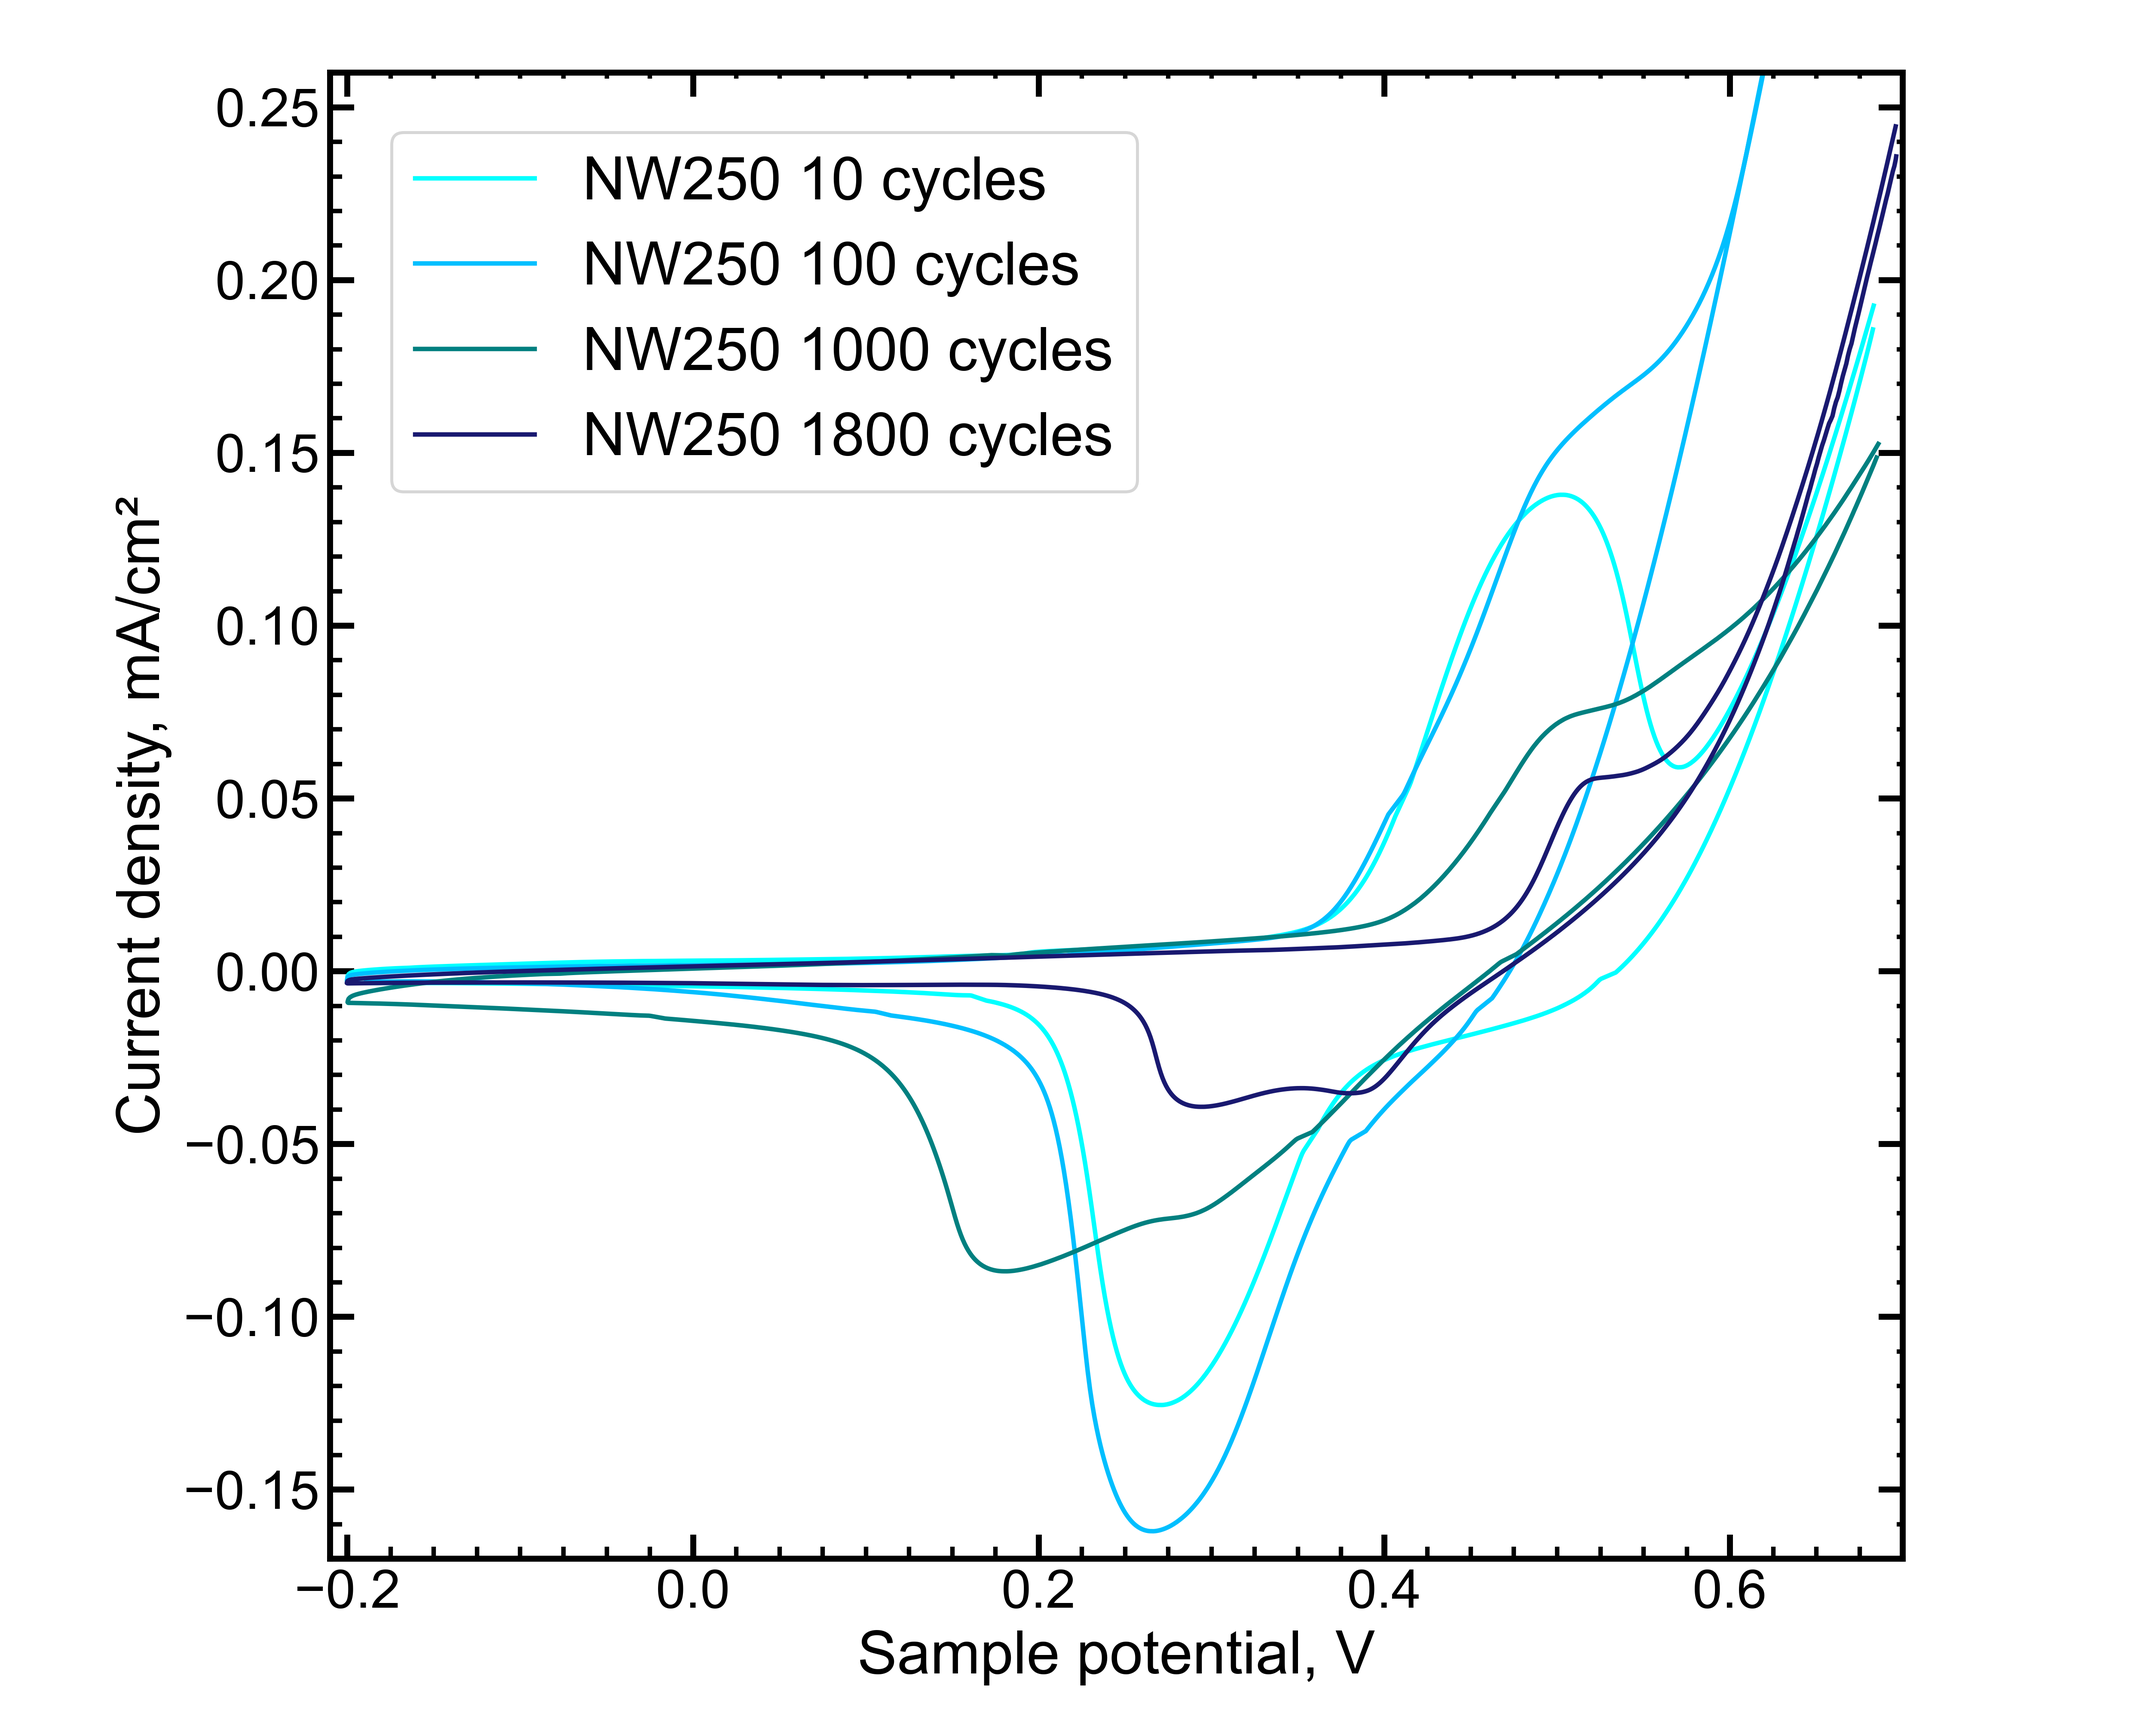
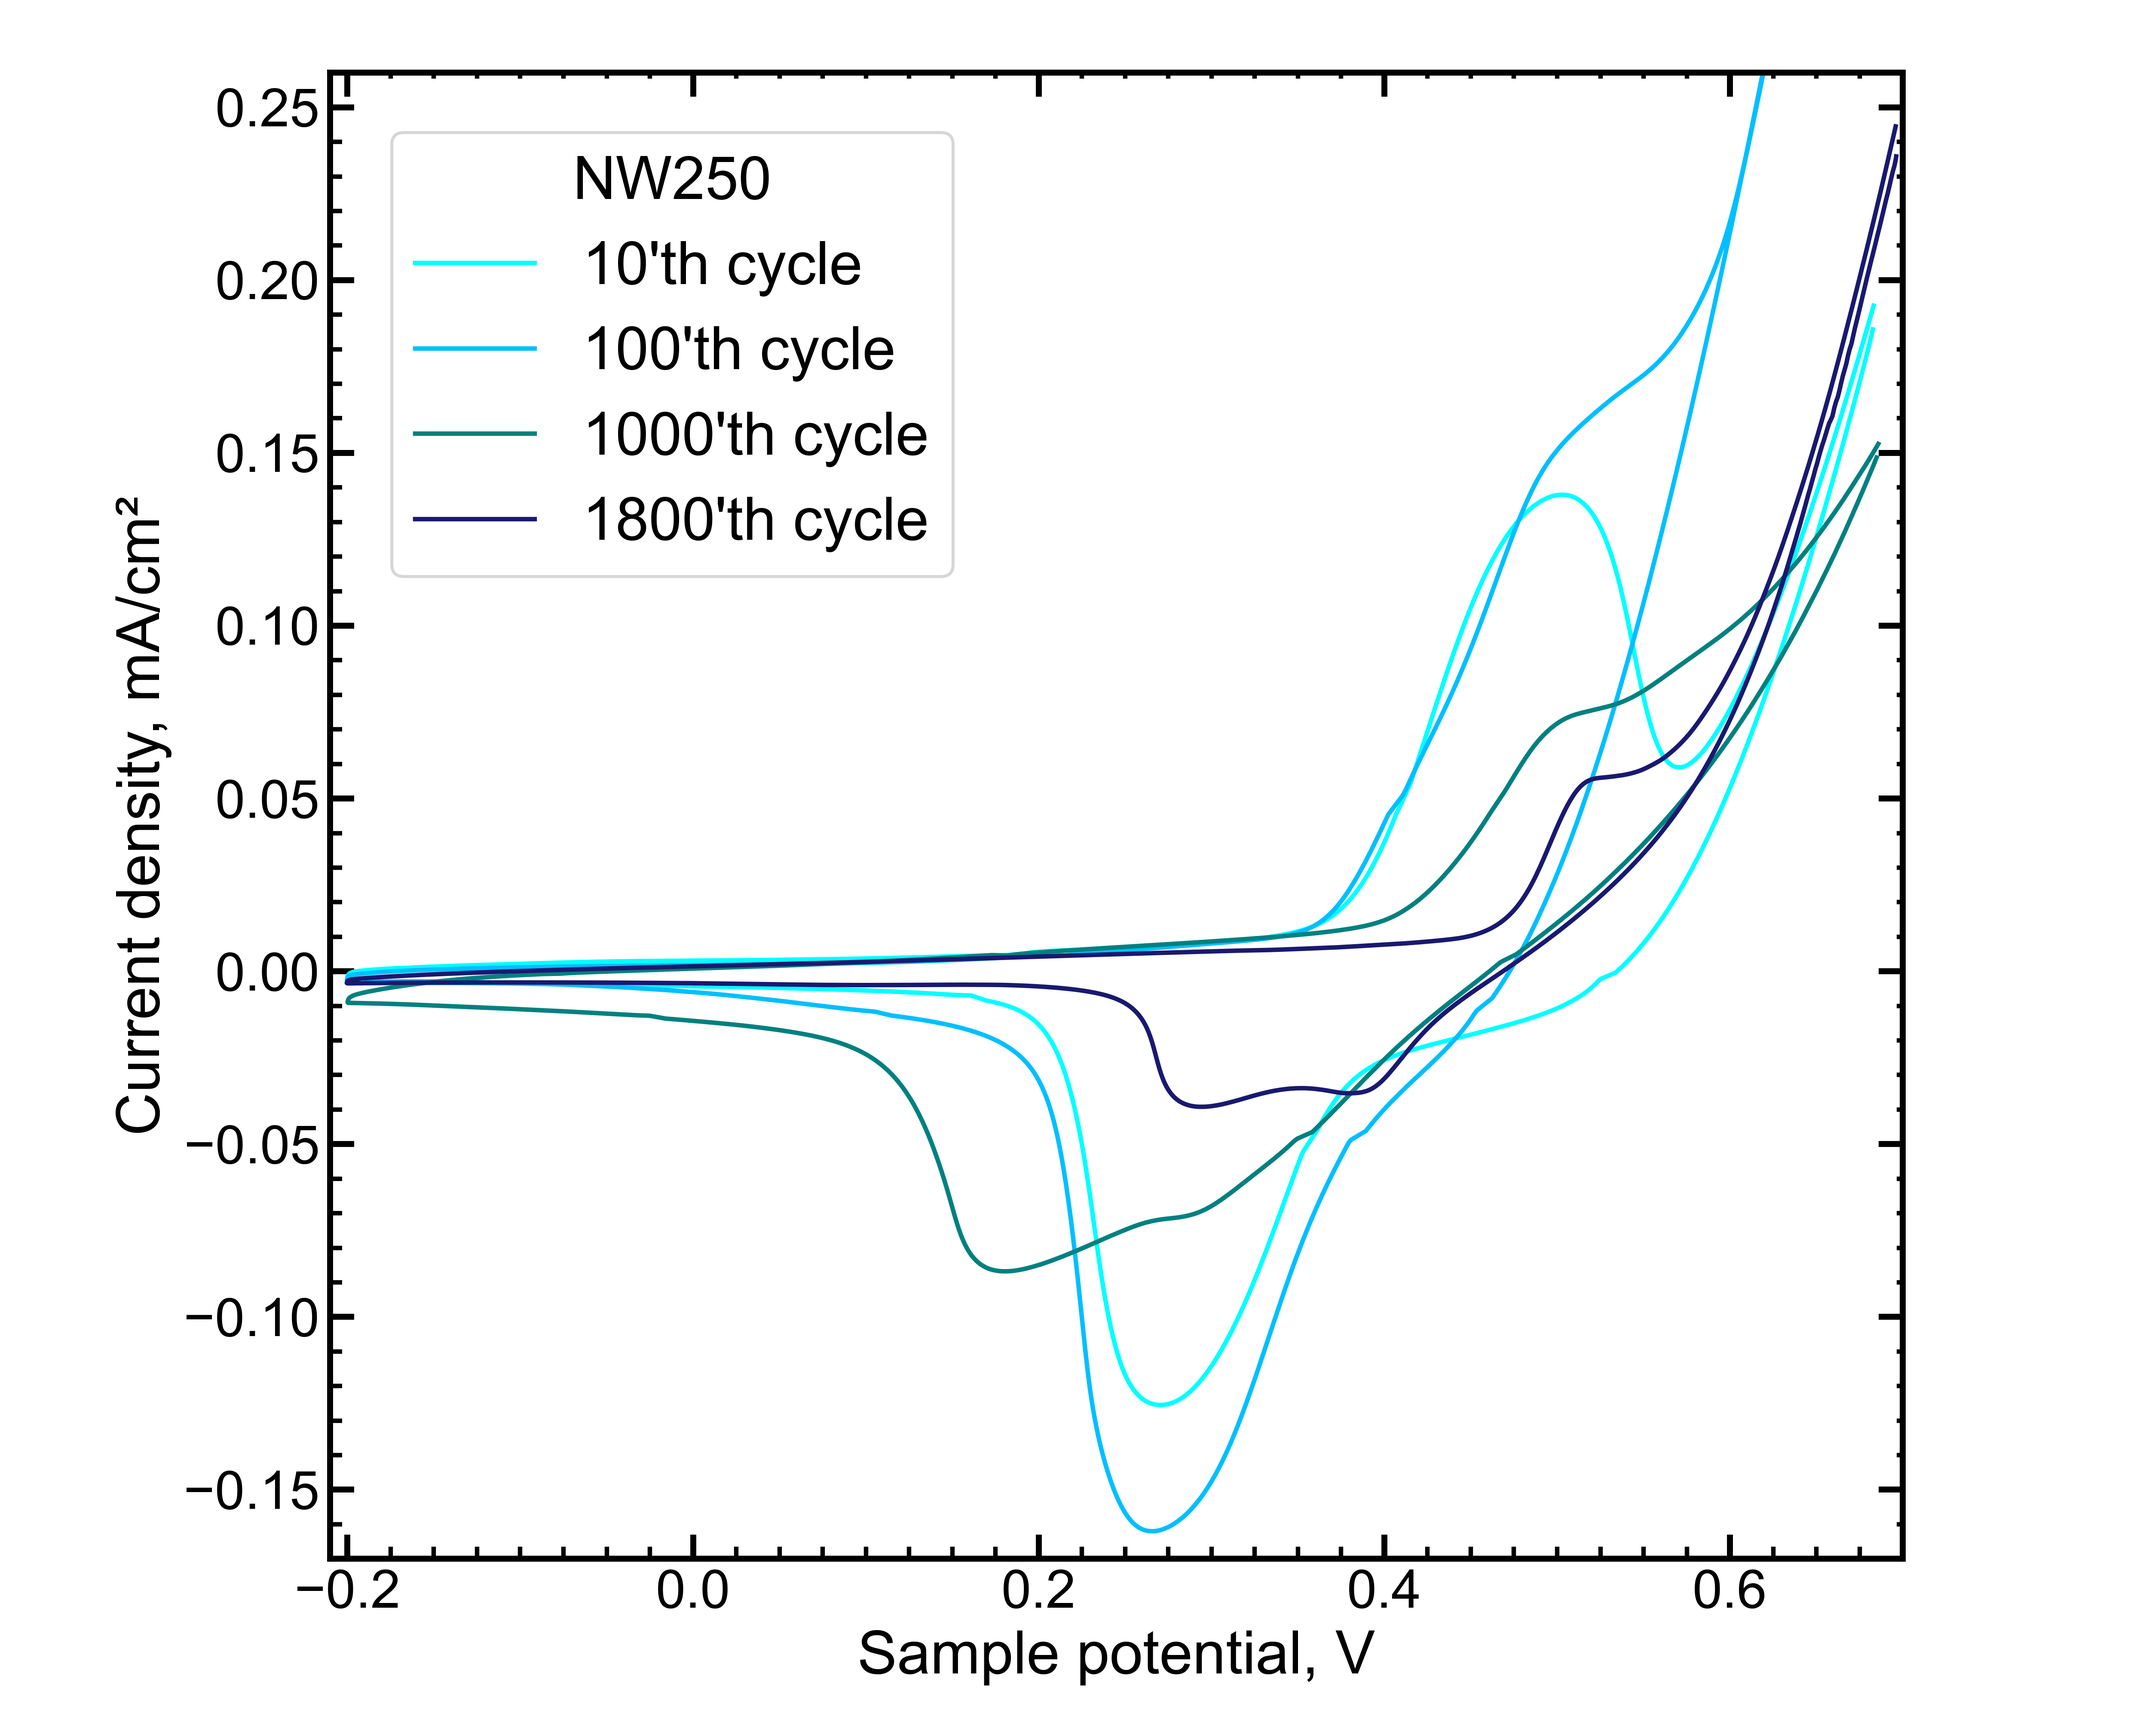
фикс легенд и размера шрифтов

Changed region(s): [[0.1872, 0.0938, 0.5304, 0.3438], [0.2184, 0.125, 0.2496, 0.1562]]

diff --git a/Скрипты/CV-091-all.py b/Скрипты/CV-091-all.py
@@ -23,10 +23,10 @@ per_cycle = 1800
 s1 = per_cycle * 1
 s2 = per_cycle * 11
 current = list(map(lambda x: 1000 * x / 5, sample.current))
-line1, = ax.plot(sample.voltage[-1800:-1], list(map(lambda x: 1000 * x / 5, sample.current))[-1800:-1], color='aqua', label="NW250 10 cycles")
-line2, = ax.plot(sample100.voltage[-1800:-1], list(map(lambda x: 1000 * x / 5, sample100.current))[-1800:-1], color='deepskyblue', label="NW250 100 cycles")
-line3, = ax.plot(sample1000.voltage[-1800:-1], list(map(lambda x: 1000 * x / 5, sample1000.current))[-1800:-1], color='teal', label="NW250 1000 cycles")
-line4, = ax.plot(sample1800.voltage[-1800:-1], list(map(lambda x: 1000 * x / 5, sample1800.current))[-1800:-1], color='midnightblue', label="NW250 1800 cycles")
+line1, = ax.plot(sample.voltage[-1800:-1], list(map(lambda x: 1000 * x / 5, sample.current))[-1800:-1], color='aqua', label="10'th cycle")
+line2, = ax.plot(sample100.voltage[-1800:-1], list(map(lambda x: 1000 * x / 5, sample100.current))[-1800:-1], color='deepskyblue', label="100'th cycle")
+line3, = ax.plot(sample1000.voltage[-1800:-1], list(map(lambda x: 1000 * x / 5, sample1000.current))[-1800:-1], color='teal', label="1000'th cycle")
+line4, = ax.plot(sample1800.voltage[-1800:-1], list(map(lambda x: 1000 * x / 5, sample1800.current))[-1800:-1], color='midnightblue', label="1800'th cycle")
 
 # arrow = ax.arrow(0.39, 0.05, 0.04, 0.05, width=0.002, color="salmon")
 # plt.annotate("cycle increase", (0.37, 0.05), (0.25, 0.05), color="tomato", fontsize=20)
@@ -45,7 +45,10 @@ for spine in ax.spines.values():
 ax.tick_params(axis="both", direction="in", length=8, labelsize=18, width=2)
 
 # Добавление легенды с небольшим смещением от верхнего левого угла
-ax.legend(fontsize='20', loc='upper left', bbox_to_anchor=(0.02, 0.98))
+legend = ax.legend(fontsize='20', loc='upper left', bbox_to_anchor=(0.02, 0.98))
+plt.setp(legend.get_title(), fontsize='20', color='black')
+legend.set_title("NW250")
+
 
 ax2 = ax.secondary_yaxis("right")
 ax2.tick_params(axis="both", direction="in", length=8, labelcolor="white", width=2)

diff --git a/Скрипты/091-spectras.py b/Скрипты/091-spectras.py
@@ -39,7 +39,7 @@ def main():
     txt = [15, 15, 100, 100, 1000, 1000, 1800, 1800]
     for df in dfs:
         if i % 2 == 0:
-            ax.plot(df["wl"], df["t"], color=colors[k], label="NW250 cycle " + txt[j].__str__(), linewidth=2)
+            ax.plot(df["wl"], df["t"], color=colors[k], label="Сycle " + txt[j].__str__(), linewidth=2)
         else:
             ax.plot(df["wl"], df["t"], color=colors[k], linewidth=2)
         i += 1
@@ -50,8 +50,8 @@ def main():
 
     ax.minorticks_on()
 
-    ax.set_ylabel("Transmittance, %", size=24)
-    ax.set_xlabel("Wavelength, nm", size=24)
+    ax.set_ylabel("Transmittance, %", size=20)
+    ax.set_xlabel("Wavelength, nm", size=20)
 
     # Увеличение толщины осей
     for spine in ax.spines.values():
@@ -77,7 +77,9 @@ def main():
     ax3.xaxis.set_minor_locator(plt.MultipleLocator(25))
 
     # Добавление легенды в правый нижний угол с отступом от края
-    ax.legend(fontsize='20', loc='lower right', bbox_to_anchor=(0.95, 0.05))
+    legend = ax.legend(fontsize='20', loc='lower right', bbox_to_anchor=(0.95, 0.05))
+    plt.setp(legend.get_title(), fontsize='20', color='black')
+    legend.set_title("NW250")
 
     ax.set_ylim(50, 100)
     ax.set_xlim(350, 900)
